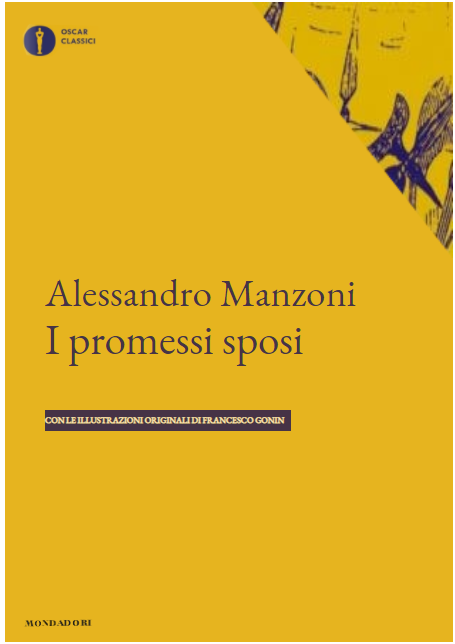
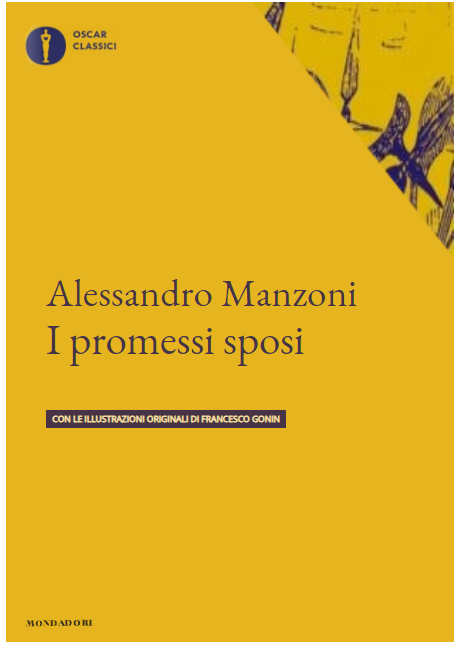
c

diff --git a/file definitivi/stylesheet-mondadori.css b/file definitivi/stylesheet-mondadori.css
@@ -2,13 +2,15 @@
 @font-face  {font-family:  EBGaramond;
                    src: url('font/EBGaramond.ttf') format('truetype');}
                
-                              
+  @font-face  {font-family:  OpenSans-Regular;
+ src: url('font/OpenSans-Regular.ttf') format('truetype');}
+                                                 
                
 
 .decoration{position: absolute; 
             content: url(img/mondadori.png);
             width: auto;
-            height: 5.8%;
+            height: 7.3%;
             margin-top:4%;
             margin-left:3%;
            }        
@@ -23,14 +25,17 @@
 .curator{display: none;}
 .introduction{display: none;}
 
-.specification{text-transform: uppercase;
+.specification{font-family: OpenSans-Regular;
+                font-weight: 800;
+                text-transform: uppercase;
                font-size: 0.8em;
-               font-weight:bold;
                color:FFE6B0;
                background-color:#463346 ;
                padding-top:1.5%;
                padding-bottom:1.5%;
-               margin-right: 21%;
+               margin-right: 23%;
+               padding-left: 2%;
+           
                }
 
 .text-cover{font-family:  EBGaramond;

diff --git a/index.html b/index.html
@@ -582,11 +582,13 @@ and (-webkit-min-device-pixel-ratio: 2){.decoration{margin-top:-4.4%;}
 @font-face  {font-family:  EBGaramond;
 src: url('font/EBGaramond.ttf') format('truetype');}
 					
-	 
+@font-face  {font-family:  OpenSans-Regular;
+src: url('font/OpenSans-Regular.ttf') format('truetype');}
+														 
 .decoration{position: absolute; 
             content: url(img/mondadori.png);
             width: auto;
-            height: 5.8%;
+            height: 7.3%;
             margin-top:4%;
             margin-left:3%;
            }        
@@ -603,12 +605,15 @@ src: url('font/EBGaramond.ttf') format('truetype');}
 	 
 .specification{text-transform: uppercase;
                font-size: 0.8em;
-               font-weight:bold;
+               font-family: OpenSans-Regular;
+               font-weight: 800;
                color:FFE6B0;
                background-color:#463346 ;
                padding-top:1.5%;
                padding-bottom:1.5%;
-               margin-right: 21%;
+			   margin-right: 23%;
+			   padding-left: 2%;
+		   }
               }
 	 
 .text-cover{font-family:  EBGaramond;

diff --git a/file definitivi/book cover.html b/file definitivi/book cover.html
@@ -3,7 +3,7 @@
         <meta charset="utf-8">
         <title> Book cover </title>
         <meta name="viewport" content="width=device-width, initial-scale=1.0, user-scalable=yes">
-        <link rel="stylesheet" type="text/css" href="stylesheet-feltrinelli.css">
+        <link rel="stylesheet" type="text/css" href="stylesheet-mondadori.css">
          <!----name of the css file containing the properties that the designer wants to edit-->
 
         <link rel="stylesheet" type="text/css" href="stylesheet-fixed-properties.css"> 
